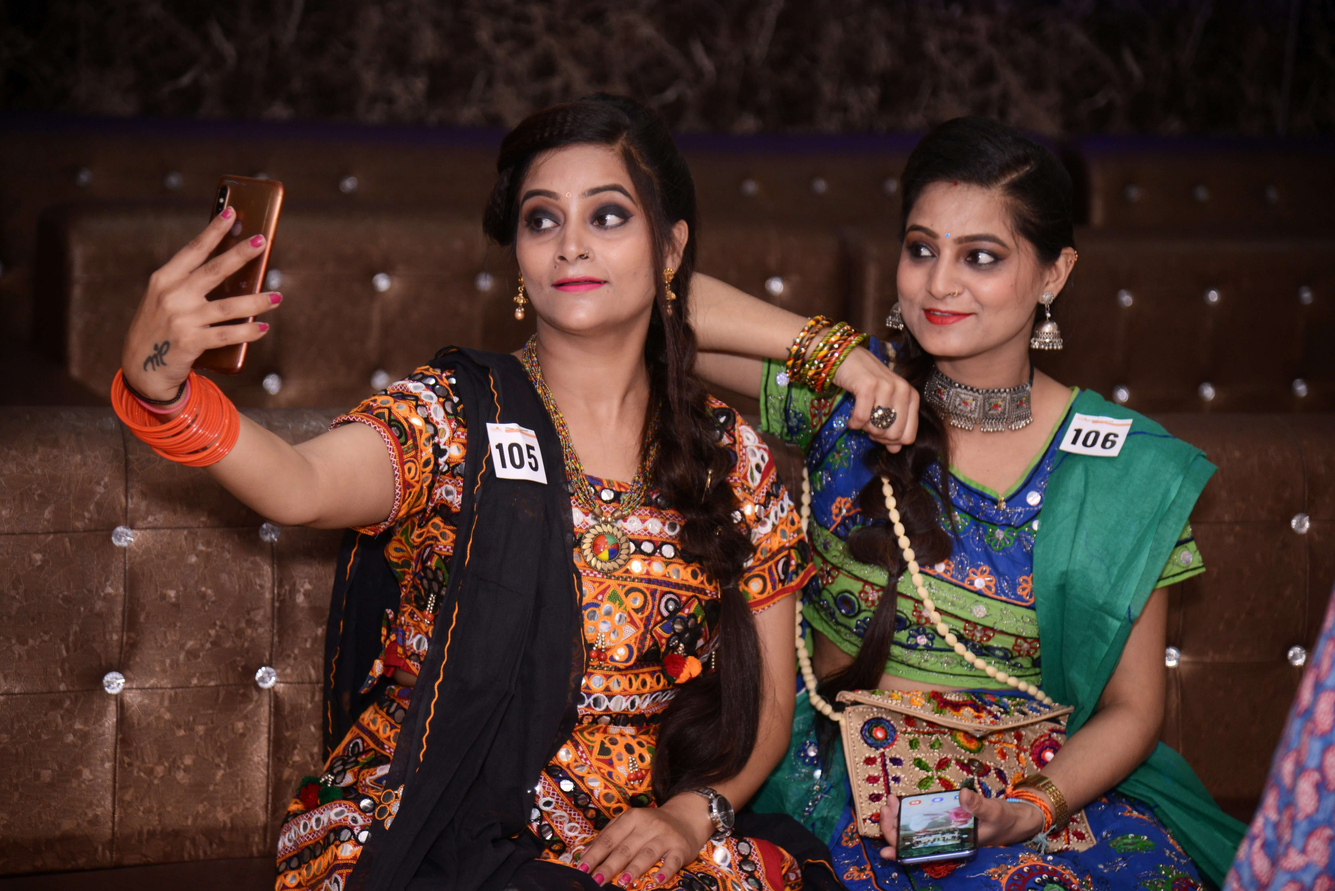
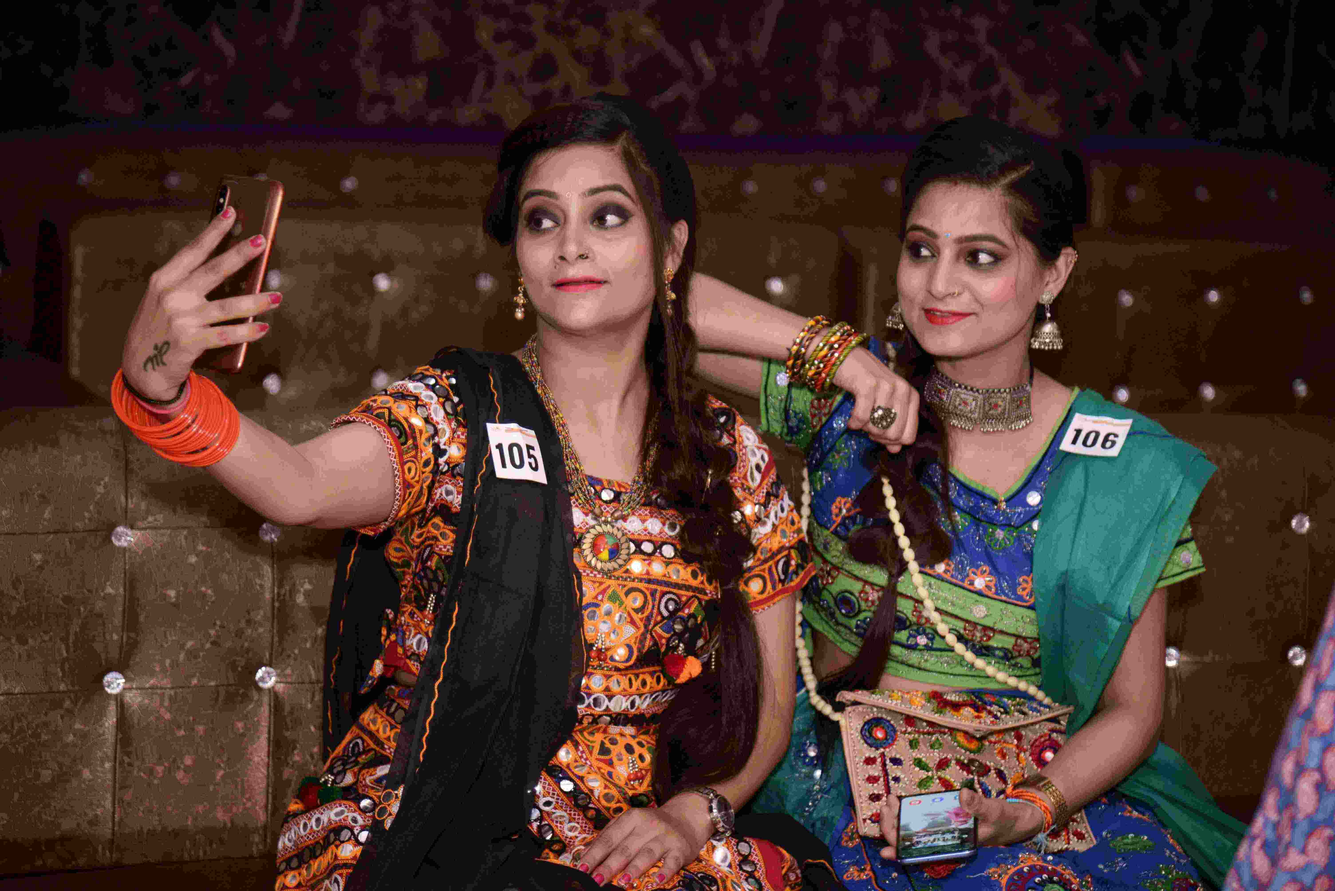
debug:changed to further resized images for better performance

diff --git a/gallery.html b/gallery.html
@@ -46,20 +46,20 @@
       </div>
       <div class="g-box">
         <div class="p-col-1">
-          <img src="./assets/images/gallery-images/image1.jpg">
-            <img src="./assets/images/gallery-images/image2.jpg">
-              <img  src="./assets/images/gallery-images/image3.jpg">
+          <img src="./assets/images/gallery-images/image1.jpg" alt="Idol of Hindu god Ganesh decorated with flowers">
+            <img src="./assets/images/gallery-images/image2.jpg" alt="A collection of idols of Hindu god Ganesh ready for sale">
+              <img  src="./assets/images/gallery-images/image3.jpg" alt="People carrying decorated idol of Hindu god Ganesh">
                   
         </div>
         <div class="p-col-1">
-          <img src="./assets/images/gallery-images/image4.jpg">
-            <img src="./assets/images/gallery-images/image5.jpg">
-              <img  src="./assets/images/gallery-images/image6.jpg">
+          <img src="./assets/images/gallery-images/image4.jpg" alt="Bid idol of Hindu god Ganesh surrounded in red coloured powder flying">
+            <img src="./assets/images/gallery-images/image5.jpg" alt="A collection of tiny idols of Hindu god Ganesh ready for sale">
+              <img  src="./assets/images/gallery-images/image6.jpg" alt="Woman in traditional attire holding an idol of Hindu god Ganesh in her palm">
         </div>
         <div class="p-col-1">
-          <img src="./assets/images/gallery-images/image7.jpg">
-            <img src="./assets/images/gallery-images/image8.jpg">
-              <img  src="./assets/images/gallery-images/image9.jpg">
+          <img src="./assets/images/gallery-images/image7.jpg" alt="People in procession coloured in red surrounding a large idol of Hindu god Ganesh">
+            <img src="./assets/images/gallery-images/image8.jpg" alt="Women welcomes Hindu god Ganesh with open arms in air while people carry an idol in a procession on street">
+              <img  src="./assets/images/gallery-images/image9.jpg" alt="Hindu god Ganesh placed in a beautifully decorated altar">
         </div>
       </div>  
     </div>
@@ -69,20 +69,20 @@
       </div>
       <div class="g-box">
         <div class="p-col-1">
-          <img src="./assets/images/gallery-images/image10.jpg">
-            <img src="./assets/images/gallery-images/image13.jpg">
-              <img  src="./assets/images/gallery-images/image14.jpg">
+          <img src="./assets/images/gallery-images/image10.jpg" alt="Golden bangles, flowers and red coth set on desk ready for Sankranti celebration">
+            <img src="./assets/images/gallery-images/image13.jpg" alt="Indian sweet made of sesame and jaggery aesthetically placed with flowers around">
+              <img  src="./assets/images/gallery-images/image14.jpg" alt="People gathered around in a hall and some sat around a table to celebrate Sankranti">
                   
         </div>
         <div class="p-col-1">
-          <img src="./assets/images/gallery-images/image15.jpg">
-            <img src="./assets/images/gallery-images/image17.jpg">
-              <img  src="./assets/images/gallery-images/image18.jpg">
+          <img src="./assets/images/gallery-images/image15.jpg" alt="People gathered on street dressed in white and red traditional attire">
+            <img src="./assets/images/gallery-images/image17.jpg" alt="Two woman contestants posing and taking a selfie with their phone">
+              <img  src="./assets/images/gallery-images/image18.jpg" alt="Hands flaunting freshly applied henna designs">
         </div>
         <div class="p-col-1">
-          <img src="./assets/images/gallery-images/image11.jpg">
-            <img src="./assets/images/gallery-images/image12.jpg">
-              <img  src="./assets/images/gallery-images/image16.jpg">
+          <img src="./assets/images/gallery-images/image11.jpg" alt="Hands with rufous coloured henna designs">
+            <img src="./assets/images/gallery-images/image12.jpg" alt="eople gathered on street dressed in white and red traditional attire, ready for a procession">
+              <img  src="./assets/images/gallery-images/image16.jpg" alt="Indian savoury cakes made of sago and potato ">
         </div>
       </div>  
     </div>

diff --git a/events.html b/events.html
@@ -55,7 +55,7 @@
                 <p>Breakfast and Lunch will be served at the venue with lots of Marathi food</p>
             </div>
                 <div class="col-sm-4 col-md-4 col-lg-4 order-lg-1 order-md-1">
-                    <img src="./assets/images/flyer 1.jpg" class="flyer-container" title="gudi padwa celebration" alt="an image of upside-down pot hanging atop of decortated stick on a red background with flowers">
+                    <img src="./assets/images/flyer1.jpg" class="flyer-container" title="gudi padwa celebration" alt="Flyer for Event Gudi Padwa">
                 </div>
             </div>        
         </div>    
@@ -74,7 +74,7 @@
                     <p><strong>Location: Temple of Peace, Cardiff, CF11 6PP </strong></p>
                     <p>Pooja will be followed by aarti then leave for visarjan and dinner</p>               </div>
                     <div class="col-sm-4 col-md-4 col-lg-4 order-lg-2 order-md-2">
-                        <img src="./assets/images/flyer 2.jpg" class="flyer-container" title="gudi padwa celebration" alt="an image of Indian God Ganesh and event details">
+                        <img src="./assets/images/flyer2.jpg" class="flyer-container" title="gudi padwa celebration" alt="Flyer for event Ganesh Utsav Celebration">
                     </div>
                 </div>        
             </div>               

diff --git a/contact.html b/contact.html
@@ -52,9 +52,9 @@
                         </div>
                         <div class="input-box">                                  
                             <input class="input-value" type="email" name="email" placeholder="Your Email Address" aria-label="Type your email address here" required>
-                        </div class="input-box">  
+                        </div> 
                         <div class="input-box input-query">      
-                            <textarea class="input-value" type="text" name="query" placeholder="Enter Your Query" aria-label="Type your query here" required></textarea>
+                            <textarea class="input-value" name="query" placeholder="Enter Your Query" aria-label="Type your query here" required></textarea>
                         </div>
                         <div class="radio-message">    
                             <p style="font-weight: 600;">
@@ -92,7 +92,7 @@
         </div>           
     
 
-    <section>
+   
         <footer>
 
             <span>Find us on:</span>
@@ -102,6 +102,6 @@
                 <a href="mailto:info@wms.org.uk" target="_blank" aria-label="Email address"><i class="fa-solid fa-envelope"></i>info@wms.org.uk</a>
             
         </footer>
-    </section>
+    
 </body>
 </html>

diff --git a/thank-you.html b/thank-you.html
@@ -50,11 +50,9 @@
             </div>
           </div>
     </section>
-    <section>
+    
 
-    </section>    
-        
-    <section>
+
         <footer>
     
             <span>Find us on:</span>
@@ -64,6 +62,6 @@
             <a href="mailto:info@wms.org.uk" target="_blank" aria-label="Email address"><i class="fa-solid fa-envelope"></i>info@wms.org.uk</a>
                 
         </footer>
-    </section>
+  
 </body>
 </html>
